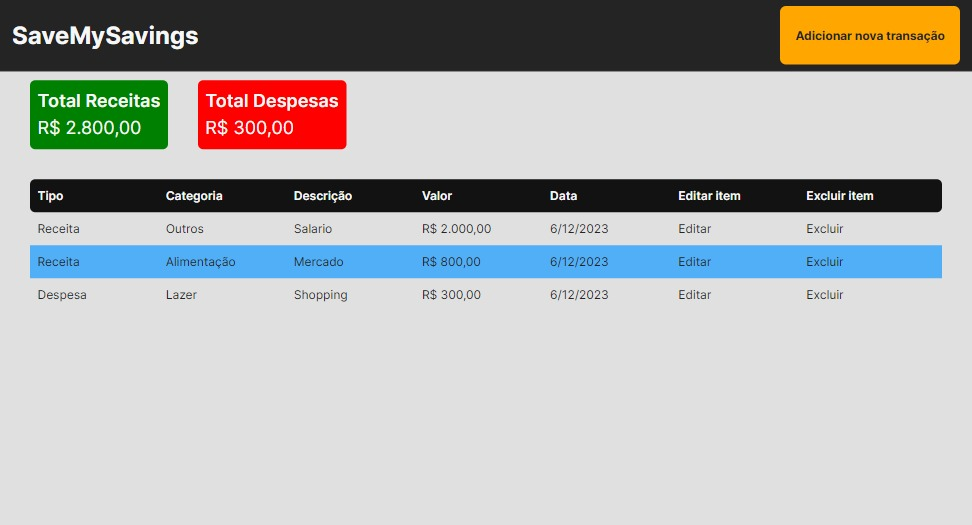
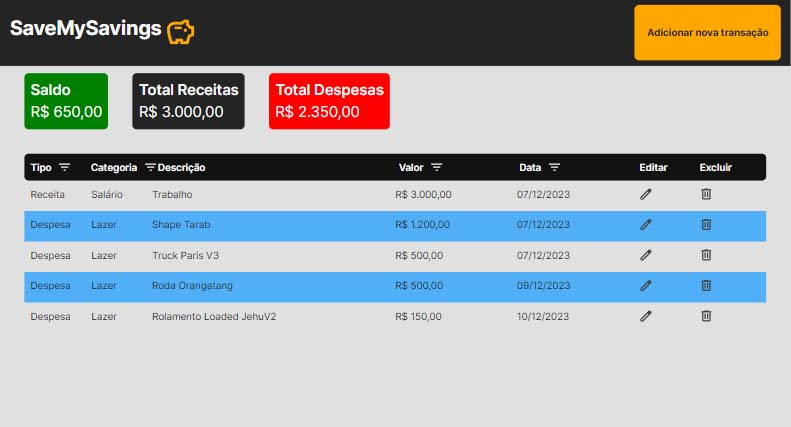
Atualizado informações sobre o novo projeto

Changed region(s): [[0.0303, 0.3349, 0.9709, 0.7611], [0.0, 0.0, 1.0, 0.3044]]

diff --git a/src/components/Projects/project/data.js b/src/components/Projects/project/data.js
@@ -35,8 +35,8 @@ const savemysavings = {
   },
   features: [
     'CRUD de transaçoes por meio de uma web api criada com ASP.NET',
+    `Filtro dinâmico`,
     'Migração feita via Entity Framework',
-    'Valor total de receitas e despesas'
   ],
   technologies: [
     'C#',
